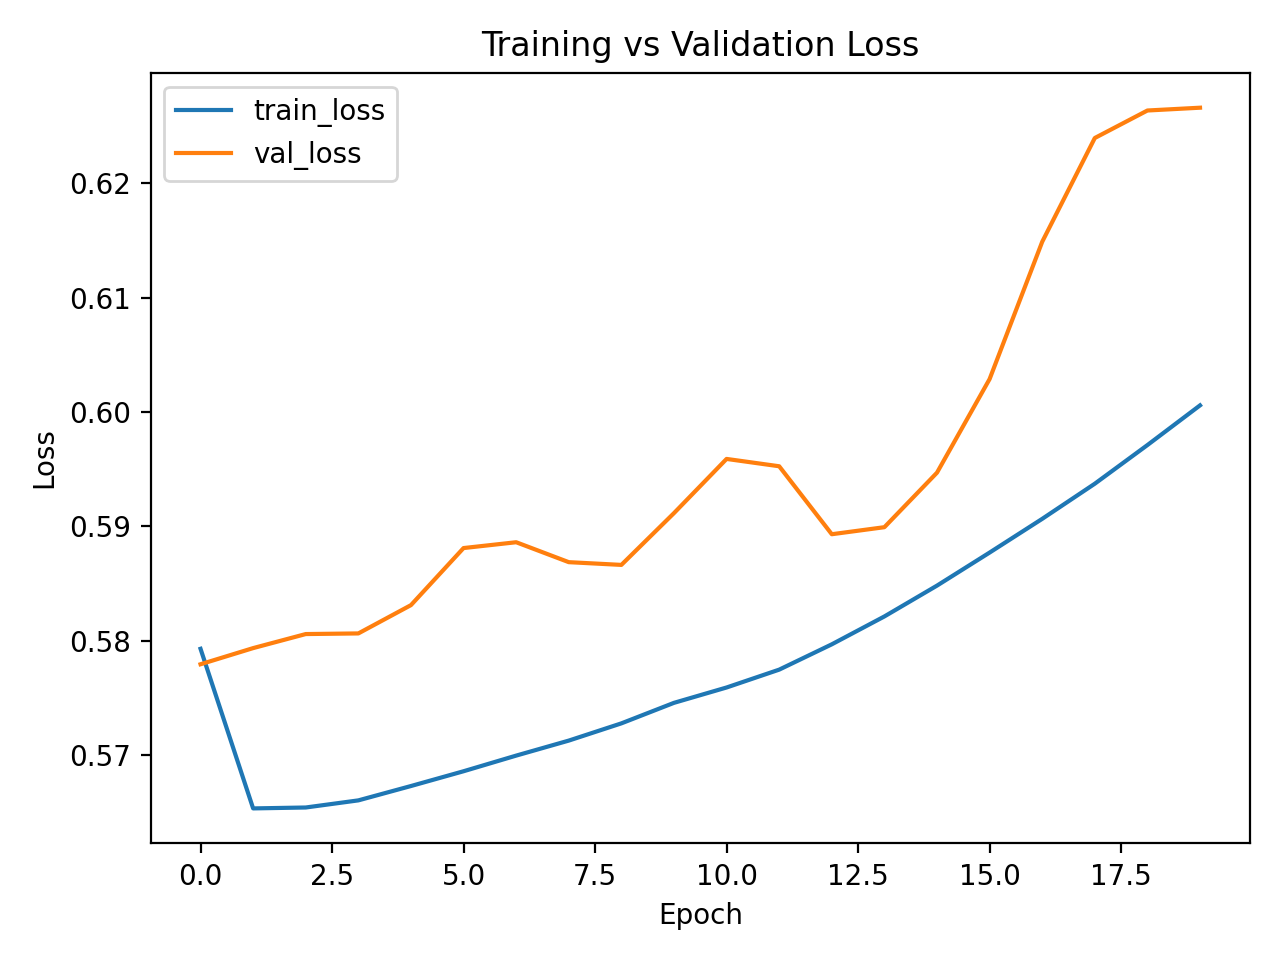
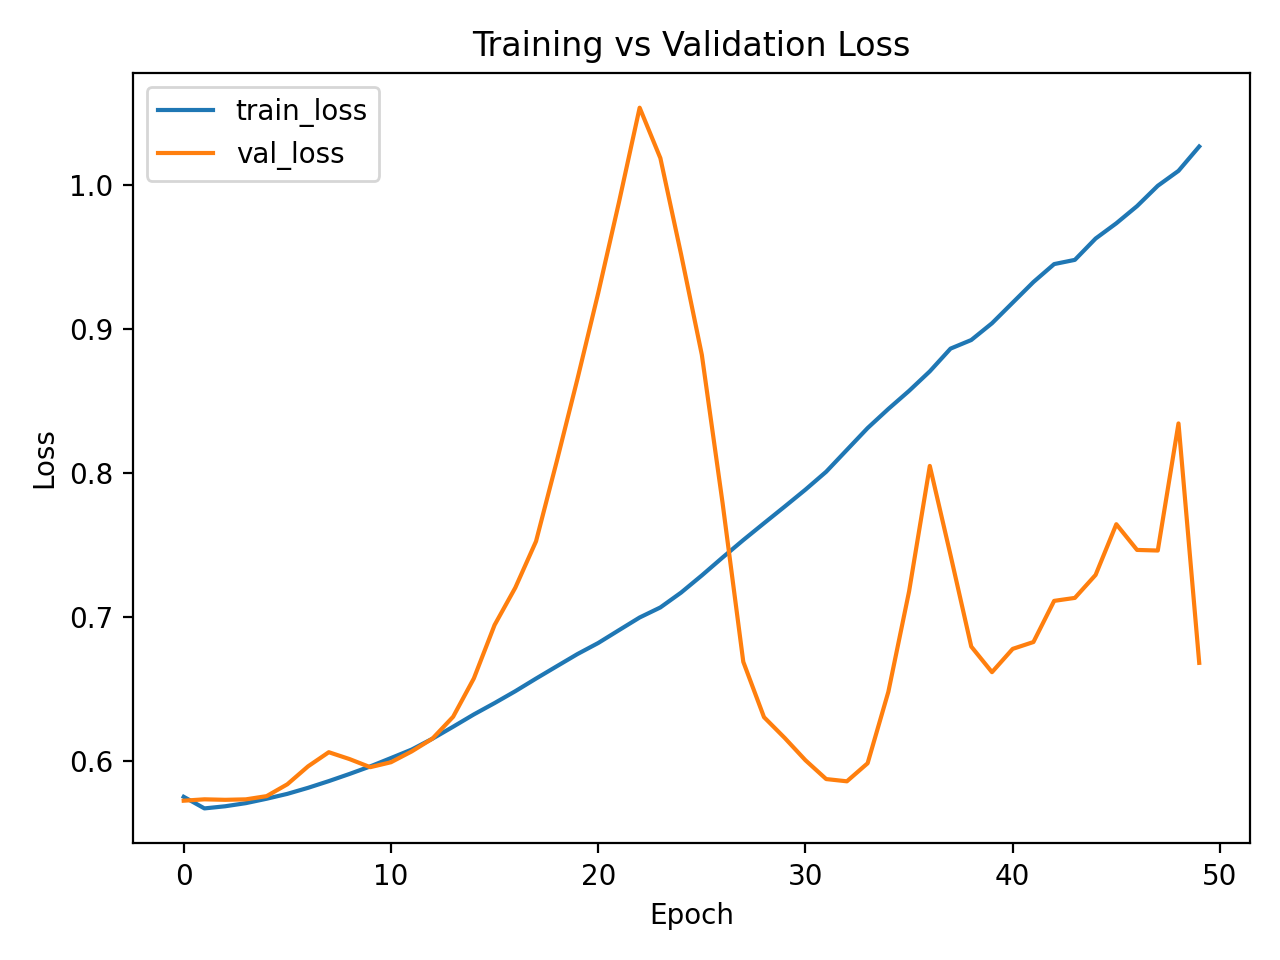
Subgoal 4: Generate learningBase artifacts (model, training_history, curves, diagnostics, scatter)

diff --git a/code/ANN/train_ann.py b/code/ANN/train_ann.py
@@ -75,7 +75,7 @@ checkpoint = keras.callbacks.ModelCheckpoint(
 )
 early_stop = keras.callbacks.EarlyStopping(
     monitor="val_loss",
-    patience=20,
+    patience=50,
     restore_best_weights=True,
 )
 
@@ -83,8 +83,8 @@ early_stop = keras.callbacks.EarlyStopping(
 history = model.fit(
     X_train, y_train,
     validation_data=(X_test, y_test),
-    epochs=20,
-    batch_size=32,
+    epochs=50,
+    batch_size=16,
     callbacks=[csv_logger, checkpoint, early_stop],
     verbose=1,
 )
